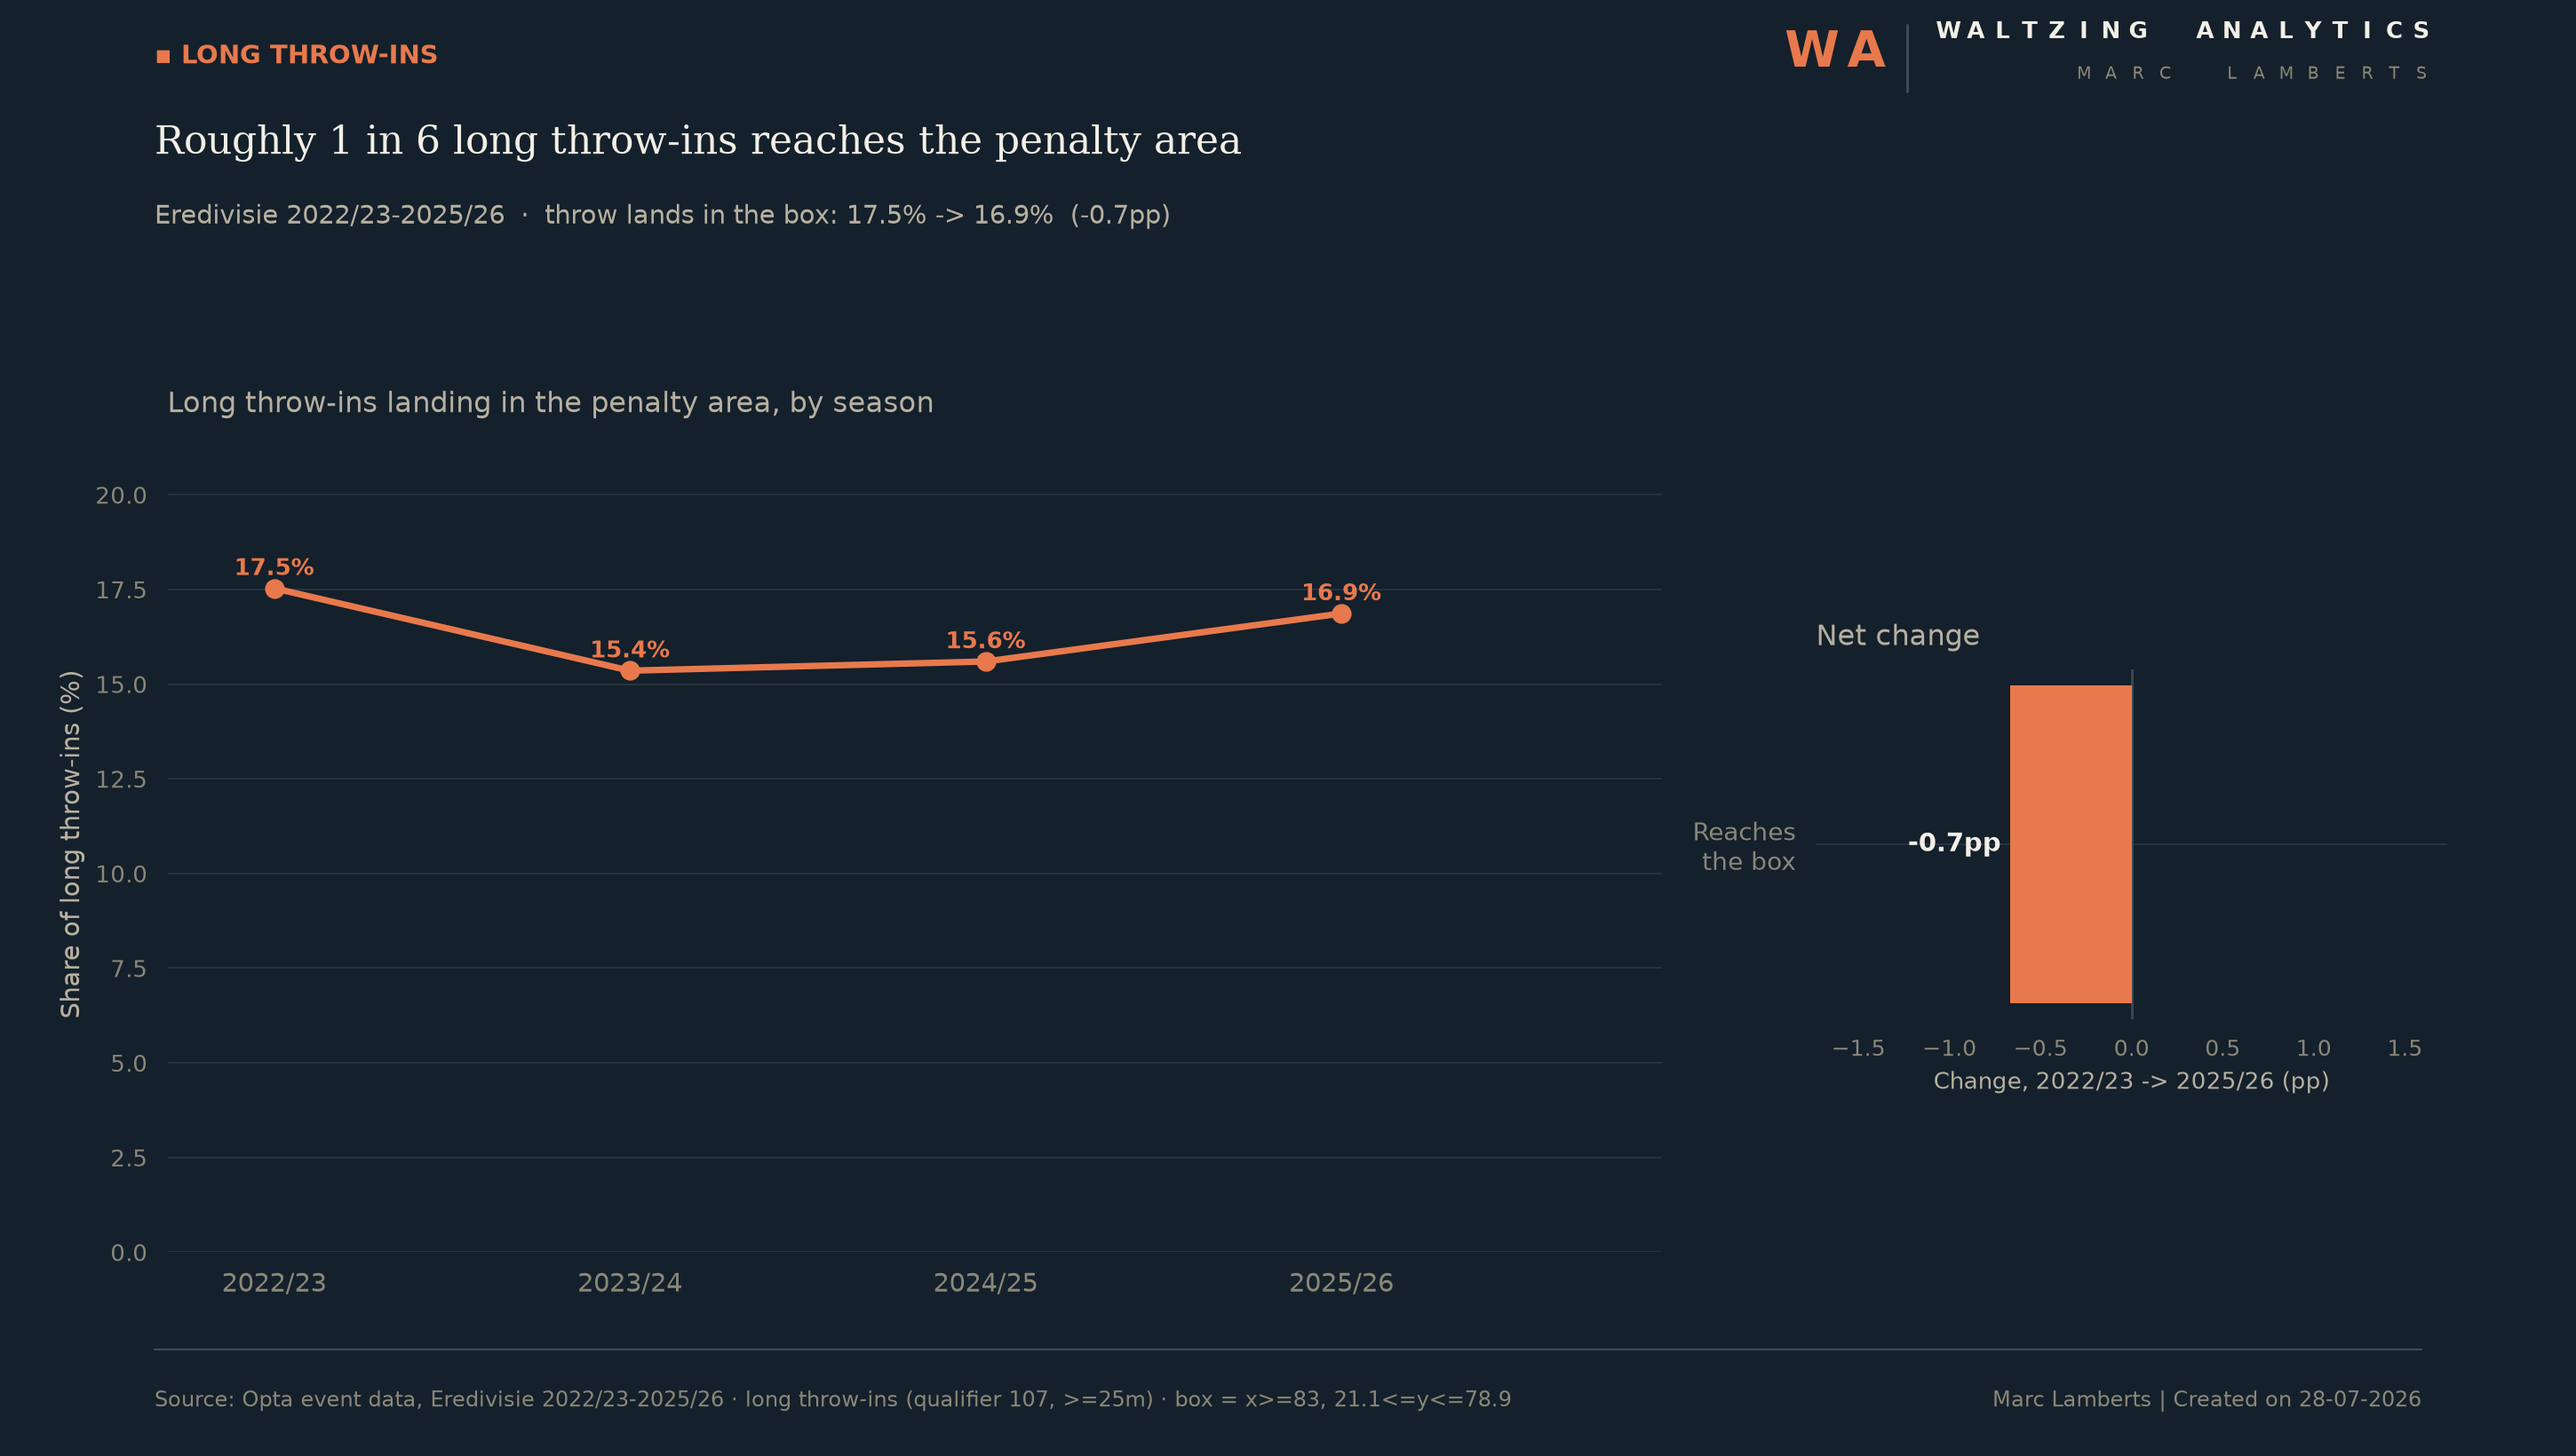
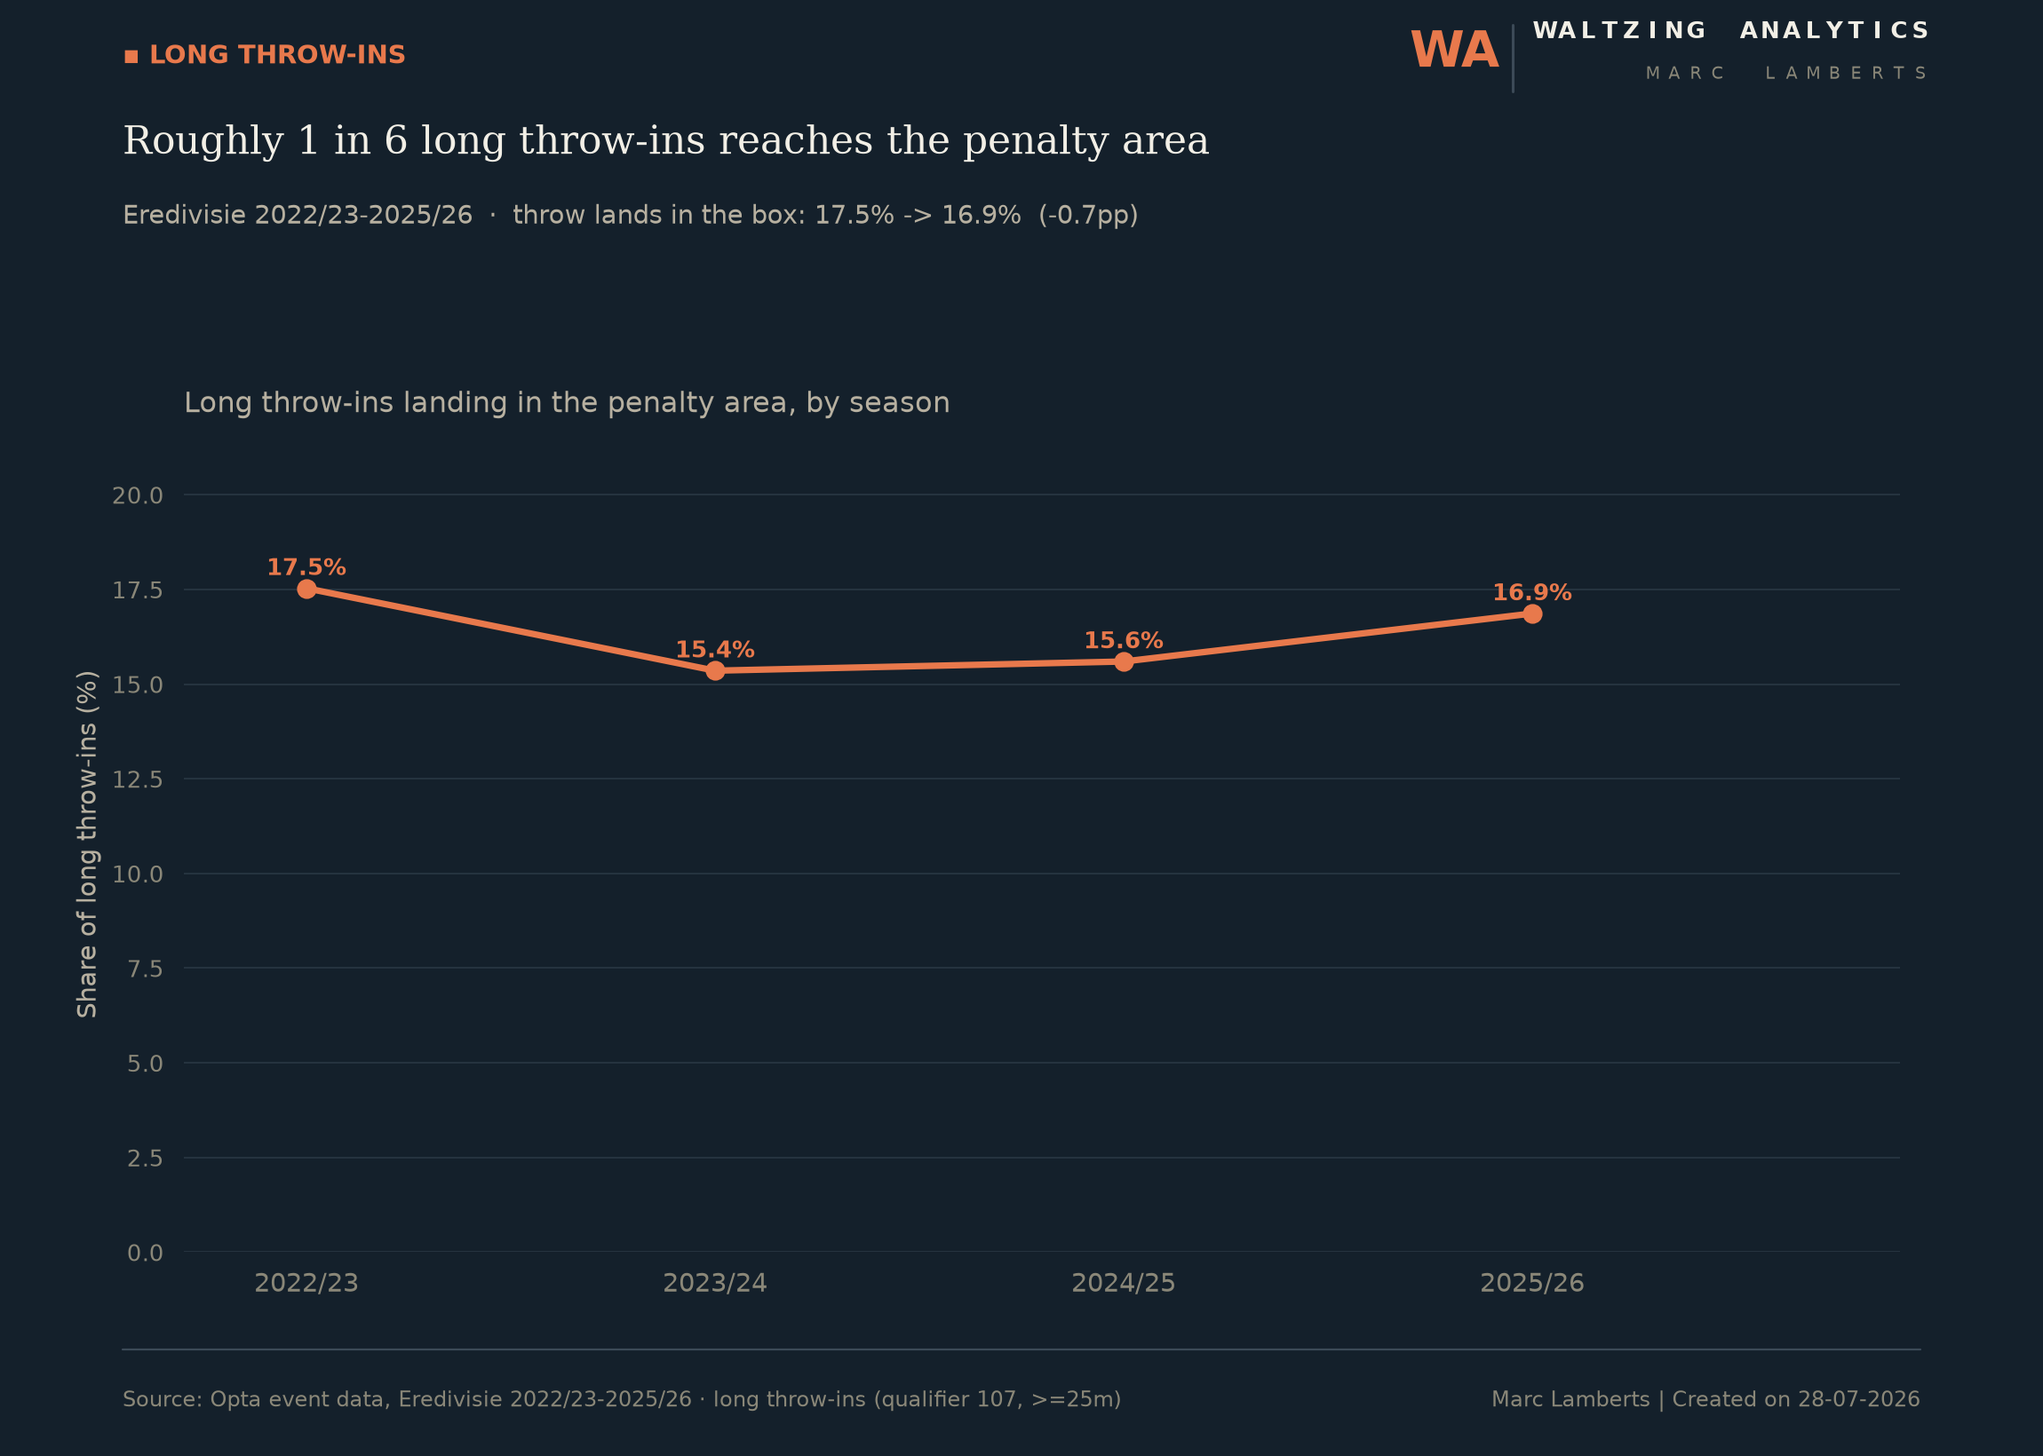
Drop the net-change bar from the box-reach trend, single line only

diff --git a/Long Throw Model/long_throw_box_trend.py b/Long Throw Model/long_throw_box_trend.py
@@ -24,7 +24,7 @@ sys.path.insert(0, os.path.dirname(os.path.abspath(__file__)))
 from long_throw_box_shot_trend import season_stats, SEASONS, SEASON_LABELS  # noqa: E402
 
 OUT_DIR = os.path.dirname(os.path.abspath(__file__))
-SOURCE = "Opta event data, Eredivisie 2022/23-2025/26 · long throw-ins (qualifier 107, >=25m) · box = x>=83, 21.1<=y<=78.9"
+SOURCE = "Opta event data, Eredivisie 2022/23-2025/26 · long throw-ins (qualifier 107, >=25m)"
 
 
 def make_chart(stats, mode, out_path):
@@ -32,10 +32,10 @@ def make_chart(stats, mode, out_path):
     box_pct = [s[1] for s in stats]
     box_delta = box_pct[-1] - box_pct[0]
 
-    fig = plt.figure(figsize=(14.5, 8.2))
+    fig = plt.figure(figsize=(11.5, 8.2))
 
     # --- main panel: 4-season trend line -------------------------------
-    ax = fig.add_axes([0.065, 0.14, 0.58, 0.56])
+    ax = fig.add_axes([0.09, 0.14, 0.84, 0.56])
     xw = np.arange(len(SEASONS))
     ax.plot(xw, box_pct, marker="o", markersize=7, color=palette["accent"], linewidth=2.6, zorder=4)
 
@@ -53,24 +53,6 @@ def make_chart(stats, mode, out_path):
         spine.set_visible(False)
     ax.set_title("Long throw-ins landing in the penalty area, by season",
                 fontsize=11.5, color=palette["ink_secondary"], loc="left", pad=10)
-
-    # --- side panel: the 2022/23 -> 2025/26 difference -----------------
-    ax2 = fig.add_axes([0.705, 0.30, 0.245, 0.24])
-    yb = np.array([0])
-    ax2.barh(yb, [box_delta], height=0.42, color=palette["accent"], zorder=3)
-    ax2.axvline(0, color=palette["axis"], linewidth=1.0, zorder=2)
-    ax2.text(box_delta + (0.05 if box_delta >= 0 else -0.05), 0, f"{box_delta:+.1f}pp", va="center",
-            ha="left" if box_delta >= 0 else "right", fontsize=10.5, fontweight="bold",
-            color=palette["ink_primary"])
-    ax2.set_yticks(yb)
-    ax2.set_yticklabels(["Reaches\nthe box"], fontsize=10)
-    lim = max(abs(box_delta) * 2.6, 1.0)
-    ax2.set_xlim(-lim, lim)
-    ax2.tick_params(axis="x", colors=palette["ink_muted"], labelsize=9)
-    ax2.set_xlabel("Change, 2022/23 -> 2025/26 (pp)", fontsize=9.5, color=palette["ink_secondary"])
-    for spine in ax2.spines.values():
-        spine.set_visible(False)
-    ax2.set_title("Net change", fontsize=11.5, color=palette["ink_secondary"], loc="left", pad=10)
 
     components.header(
         fig, kicker="Long throw-ins",
